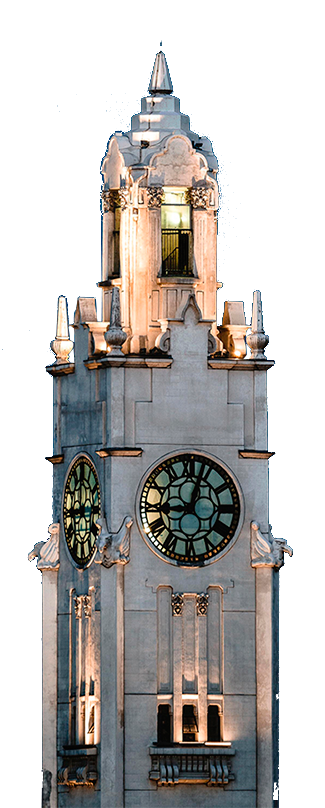
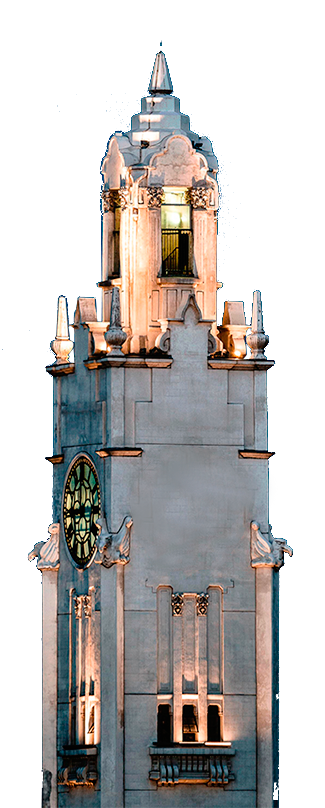
Clock part7 (Saт 05/07/2026 17:03)

diff --git a/students/Satyricons/JS Clock/style.css b/students/Satyricons/JS Clock/style.css
@@ -8,13 +8,17 @@
 body {
     height: 100%;
    background: url(./img/tower_back.jpg);
+ background-size: cover;
+    background-position: center center;
     background-repeat: no-repeat;
-    background-attachment: fixed; 
+    background-attachment: fixed;
 }
 
 .dark-theme{
   height: 100%;
    background: url(./img/tower_back_2.jpg);
+ background-size: cover;
+    background-position: center center;
     background-repeat: no-repeat;
     background-attachment: fixed; 
 }   
@@ -24,7 +28,7 @@ body {
 .container_clock {
     display: flex;
     justify-content: center;
-   height: 784px;
+height: 100vh;
    overflow: hidden;
 }
 
@@ -33,13 +37,18 @@ body {
     background: url(./img/tower.png);
     width: 325px;
     transition: 1s;
+    background-size: cover;
+    background-position: center center;
+    background-repeat: no-repeat;
+    background-attachment: fixed;
     transform-origin: 70% 70%; 
+    transform: scale(1);
 }
 
 .clock {
-    position: absolute;
+    position: relative;
  left: -5px; 
-    top: 307px;
+    top: calc(0.98 * 39vh);
     transform: scale(0.4);
     display: flex;
     justify-content: center;

diff --git a/students/Satyricons/Drum Kit/style.css b/students/Satyricons/Drum Kit/style.css
@@ -6,7 +6,7 @@ body {
     background-image: url(./img/room.jpg);
     margin: 0;
     padding: 0;
-    height: 100%;    
+    height: 100%;
     background-size: cover;
     background-position: center center;
     background-repeat: no-repeat;
@@ -48,7 +48,7 @@ body {
     font-size: 4rem;
 }
 
-.instruments{
+.instruments {
     display: flex;
     transform: scale(0.9);
 }
@@ -67,10 +67,11 @@ body {
 }
 
 
-select, .bit {
+select,
+.bit {
     background-color: #2c2c2c;
     color: white;
-     padding: 5px 10px;
+    padding: 5px 10px;
     border-radius: 5px;
 }
 
@@ -88,7 +89,7 @@ input {
 }
 
 .container_stop {
-display: flex;
+    display: flex;
     flex-direction: column-reverse;
 }
 
@@ -97,19 +98,18 @@ display: flex;
     color: white;
     padding: 5px 10px;
     border-radius: 5px;
-display: flex;
+    display: flex;
     flex-direction: column-reverse;
 }
 
 @media (max-width:767px) {
-    body{
+    body {
         transform: scale(0.5);
     }
 }
 
-.container_button{
+.container_button {
     display: flex;
     flex-direction: column;
     align-items: center;
 }
-

diff --git a/students/Satyricons/JS Clock/index.html b/students/Satyricons/JS Clock/index.html
@@ -12,10 +12,8 @@
 <body>
     <!-- <h1>JS Clock</h1> -->
 
-    <div class="container_clock">
+    <div class="container_clock">        
         <div class="tower">
-
-
             <div class="clock">
                 <div class="clock-center">
                     <div class="sec"></div>
@@ -34,17 +32,9 @@
                     <div class="dig_min">25</div>
                     <div class="dig_sec">00</div>
                 </div>
+            </div>           
             </div>
-           
-            </div>
-
-            
-        
-        
-        
-        
         </div>
-
     </div>
 </body>
 
